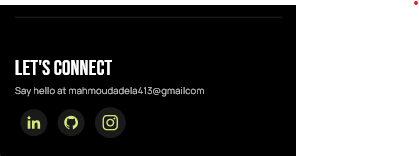
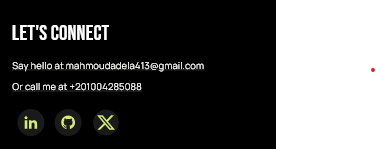
improve contact me section

diff --git a/lib/features/portfolio/presentation/views/widgets/lets_connect_info.dart b/lib/features/portfolio/presentation/views/widgets/lets_connect_info.dart
@@ -1,6 +1,7 @@
 import 'package:flutter/material.dart';
 
 import '../../../../../core/constants/app_constants.dart';
+import '../../../../../core/theme/app_colors.dart';
 import '../../../../../core/theme/app_styles.dart';
 import '../../../../../core/utils/assets.dart';
 import '../../../../../core/utils/functions/open_url.dart';
@@ -14,6 +15,7 @@ class LetsConnectInfo extends StatelessWidget {
   @override
   Widget build(BuildContext context) {
     return Column(
+      crossAxisAlignment: CrossAxisAlignment.start,
       children: [
         SizedBox(
           width: double.infinity,
@@ -22,33 +24,43 @@ class LetsConnectInfo extends StatelessWidget {
             style: AppStyles.regular40(context),
           ),
         ),
-        SizedBox(
-          width: double.infinity,
-          child: SelectableText(
-            "Say hello at mahmoudadela413@gmailcom",
-            style: AppStyles.regular18(context),
+        const SizedBox(height: 16),
+        InkWell(
+          onTap: () => openUrl(context, 'mailto:${AppConstants.email}'),
+          child: Text(
+            "Say hello at ${AppConstants.email}",
+            style: AppStyles.regular18(context).copyWith(
+              color: AppColors.white,
+              decoration: TextDecoration.underline,
+            ),
           ),
         ),
-        SizedBox(height: 16),
+        const SizedBox(height: 12),
+        InkWell(
+          onTap: () => openUrl(context, 'tel:${AppConstants.phoneNum}'),
+          child: Text(
+            "Or call me at ${AppConstants.phoneNum}",
+            style: AppStyles.regular18(context).copyWith(
+              color: AppColors.white,
+              decoration: TextDecoration.underline,
+            ),
+          ),
+        ),
+        const SizedBox(height: 24),
         Row(
           children: [
             CustomIconButton(
               svgImage: Assets.iconsLinkedin,
-              onPressed: () {
-                openUrl(context, AppConstants.linkedInUrl);
-              },
+              onPressed: () => openUrl(context, AppConstants.linkedInUrl),
             ),
             CustomIconButton(
               svgImage: Assets.iconsGithub,
-              onPressed: () {
-                openUrl(context, AppConstants.githubUrl);
-              },
+              onPressed: () => openUrl(context, AppConstants.githubUrl),
             ),
+            // WhatsApp Button
             CustomIconButton(
-              svgImage: Assets.iconsInstagram,
-              onPressed: () {
-                // openUrl(context, AppConstants.instagramUrl);
-              },
+              svgImage: Assets.iconsVector, // Placeholder icon
+              onPressed: () => openUrl(context, AppConstants.whatsappLink),
             ),
           ],
         ),

diff --git a/lib/core/constants/app_constants.dart b/lib/core/constants/app_constants.dart
@@ -3,6 +3,9 @@ abstract class AppConstants {
   static const String manropeFontFamily = "Manrope";
   static const String interFontFamily = "Inter";
   static const int duration = 300;
+  static const String phoneNum = '+201004285088';
+  static const String email = 'mahmoudadela413@gmail.com';
+  static const String whatsappLink = 'https://wa.link/nol8os';
   static const String linkedInUrl =
       "https://www.linkedin.com/in/mahmoud-adel-ali-mohamed/";
   static const String githubUrl = "https://github.com/Mahmoud-Adel-Ali";
